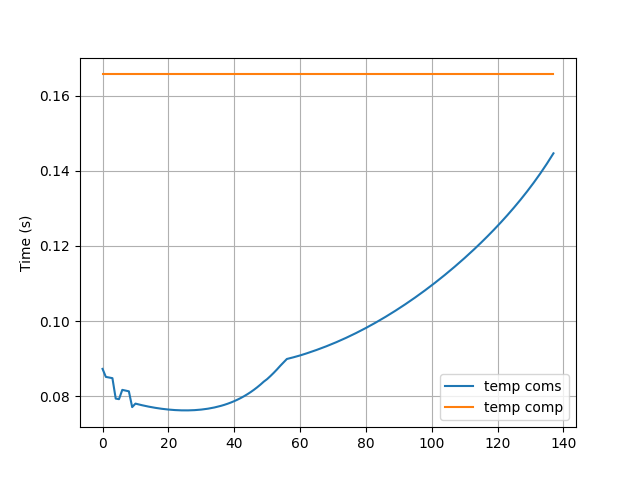
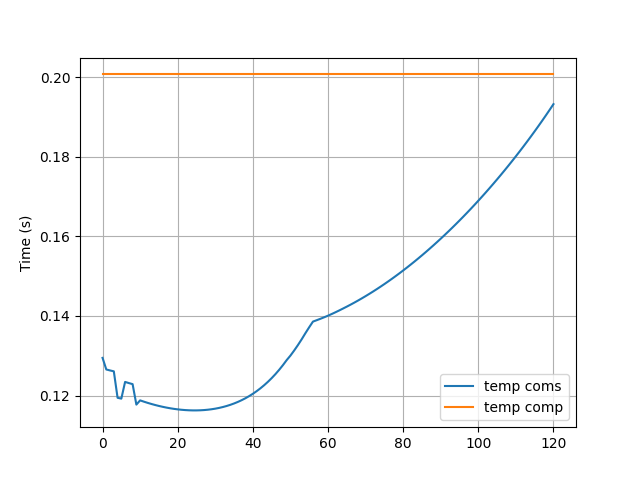
model_size=0.3Mb tau=40 update logs

diff --git a/examples/network_params.py b/examples/network_params.py
@@ -16,7 +16,7 @@ xi_factor = 1 # global gradient factor
 epsilon_0 = 1e-3 # global accuracy 
 
 compression_ratio = 0.1 # 1-0.95
-s_n = 200240 # 502400*compression_ratio=25120 bits # data transmission size TODO (784 * 10 + 10) * 2 * 32 = 502400 bits 
+s_n = 300240 # 502400*compression_ratio=25120 bits # data transmission size TODO (784 * 10 + 10) * 2 * 32 = 502400 bits 
 bw = 1e6 # 1MHz bandwidth 
 delta_t = 0.0 # TODO Based on current results uav's time penalty 
 N_0 = 4*1e-15 # -174 dBm?/Hz, noise density, should be multiplied with bw: 1e(-17.4)*1e6 = 4*1e(-12) (4*1e-15?)
